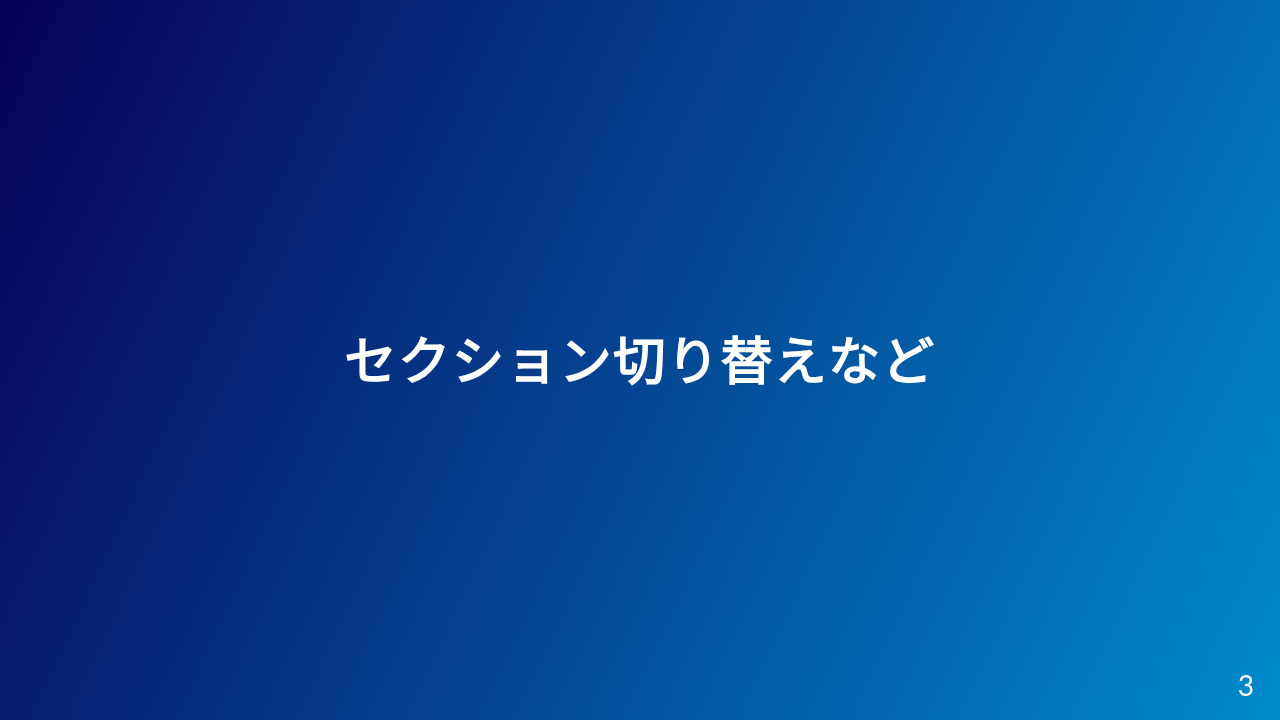
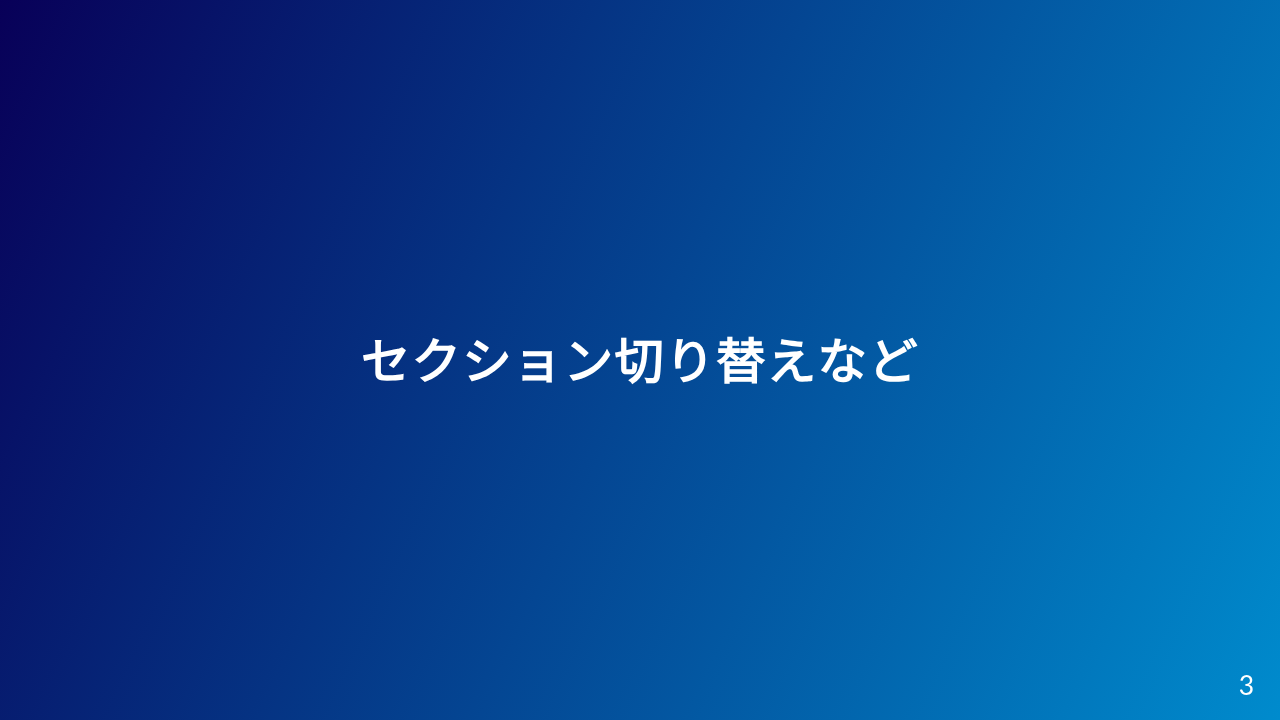
フォントサイズを33pxに変更

Changed region(s): [[0.25, 0.4583, 0.75, 0.55]]

diff --git a/marp-themes/blue.css b/marp-themes/blue.css
@@ -177,7 +177,7 @@ section {
   background-size: 9% auto, 100% 100%;
   background-color: var(--color-background);
   color: var(--color-foreground);
-  font-size: 35px;
+  font-size: 33px;
   font-family: "Lato", "Noto Sans JP", sans-serif;
   height: 720px;
   line-height: 1.35;

diff --git a/marp-themes/blue.scss b/marp-themes/blue.scss
@@ -198,7 +198,7 @@ section {
   background-size: 9% auto, 100% 100%;
   background-color: var(--color-background);
   color: var(--color-foreground);
-  font-size: 35px;
+  font-size: 33px;
   font-family: "Lato", "Noto Sans JP", sans-serif;
   height: 720px;
   line-height: 1.35;
